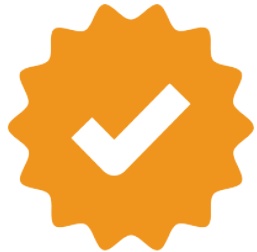
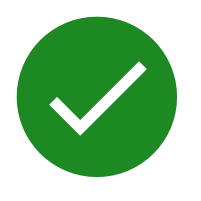
update for user profile badge

diff --git a/library/ws-widget/collection/src/lib/btn-profile/btn-profile.component.html b/library/ws-widget/collection/src/lib/btn-profile/btn-profile.component.html
@@ -47,13 +47,16 @@
     <a role="link" routerLink="/app/person-profile/me" fragment="profileInfo" class="all-features" id="viewprofile">
       <div class="float-left">
         <ws-widget-avatar-photo [name]="getGivenName" [size]="'profile-round-m'" [photoUrl]="profileImage"></ws-widget-avatar-photo>
-        
+        <span *ngIf="verifiedBadge" class="profile-badge">  
+            <img class="profile-badge" src="fusion-assets/images/profile-badge.png" height="18">
+          </span>
       </div>
       
       <div class="inline-block margin-left-s pfname">
         <p class="mat-subheading-2 text-capitalize text-ellipses">{{ getGivenName }}
-          <span *ngIf="verifiedBadge" class="profile-badge">  <img class="profile-badge" src="fusion-assets/images/profile-badge.png" height="18">
-          </span>
+          <!-- <span *ngIf="verifiedBadge" class="profile-badge">  
+            <img class="profile-badge" src="fusion-assets/images/profile-badge.png" height="18">
+          </span> -->
         </p>
         <p i18n role="link" class="ws-mat-default-text mat-body-2 font-medium font-14-bold">View Profile</p>
       </div>

diff --git a/library/ws-widget/collection/src/lib/_common/avatar-photo/avatar-photo.component.html b/library/ws-widget/collection/src/lib/_common/avatar-photo/avatar-photo.component.html
@@ -15,7 +15,9 @@
   <div *ngIf="showInitials" class="initials" i18n-aria-label>
     {{ userInitials }} 
   </div>
-  <div *ngIf="showBadge" class="success-checkmark"></div>
+  <div *ngIf="showBadge"><span class="profile-badge">  
+    <img src="fusion-assets/images/profile-badge.png">
+  </span></div>
 
   <!-- <div *ngIf="imageType === 'user-photo'">
     <img *ngIf="imageUrl" [src]="imageUrl" alt="user-image" class="user-image" [ngClass]="{'user-image-small': imageSize === 'small'}">

diff --git a/library/ws-widget/collection/src/lib/_common/avatar-photo/avatar-photo.component.scss b/library/ws-widget/collection/src/lib/_common/avatar-photo/avatar-photo.component.scss
@@ -18,6 +18,16 @@
   text-align: center;
   font-size: 9px;
 }
+
+.profile-badge {
+  position: absolute;
+  top: 10px;
+  right: 0px;
+}
+.profile-badge img{
+  height: 15px !important;
+  width: 15px !important;
+}
 .circle-s {
   border-radius: 50%;
   width: 24px;

diff --git a/library/ws-widget/collection/src/lib/btn-profile/btn-profile.component.scss b/library/ws-widget/collection/src/lib/btn-profile/btn-profile.component.scss
@@ -72,6 +72,7 @@ img.profile-badge {
     /* padding-left: 7px; */
     position: relative;
     float: right;
+    margin-top: -10px;
 }
 
 .font-14-bold {
